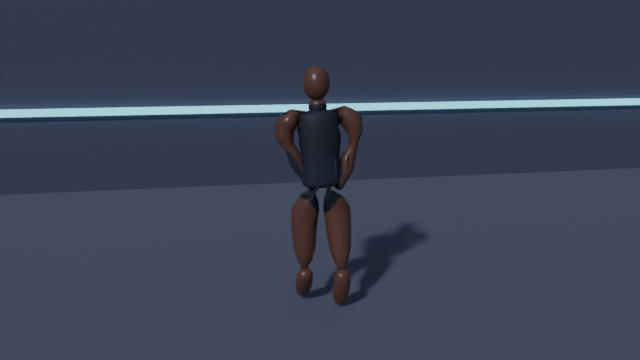
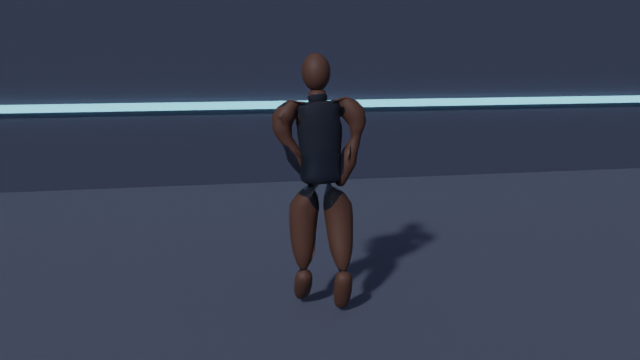
Force the diagnostics branch so every run publishes its log

diff --git a/tools/blender/make_screenshots.py b/tools/blender/make_screenshots.py
@@ -6,11 +6,10 @@ Produces:
     Game/assets/screenshots/<id>.png   one 16:9 shot per fighter
     Game/assets/screenshots/roster.png  the whole roster lined up
 
-The shots are rendered from the same rig, the same body, the same costume
-bake and the same idle clip the game loads, inside a reconstruction of the
-arena built from Game/data/arenas.json, and framed with the same field of
-view the match camera uses.  What the player sees in the menu is therefore
-what the fighter actually looks like in the ring.
+The shots are rendered from the exported game models themselves, inside a
+reconstruction of the arena built from Game/data/arenas.json, and framed
+with the same field of view the match camera uses.  What the player sees in
+the menu is therefore exactly what the fighter looks like in the ring.
 
 Axes: Blender is Z-up, the game is Y-up.  The game calls the arena width X,
 the arena depth Z and the height Y; here the same numbers are used with the
@@ -26,16 +25,10 @@ import bpy
 from mathutils import Matrix, Vector
 
 HERE = os.path.dirname(os.path.abspath(__file__))
-sys.path.insert(0, HERE)
-
-import bloodline_anim as anim  # noqa: E402
-import bloodline_rig as rig  # noqa: E402
-from generate_fighters import FIGHTERS, build_costume  # noqa: E402
-
 ROOT = os.path.abspath(os.path.join(HERE, "..", ".."))
+CHAR_DIR = os.path.join(ROOT, "Game", "assets", "characters")
 OUT_DIR = os.path.join(ROOT, "Game", "assets", "screenshots")
 ARENA_PATH = os.path.join(ROOT, "Game", "data", "arenas.json")
-BAKE_DIR = os.environ.get("BLOODLINE_BAKE", "/tmp/bloodline_bake")
 
 RES_X = 1280
 RES_Y = 720
@@ -171,46 +164,30 @@ def build_camera(location, target):
     return cam
 
 
-def build_fighter(spec, reset=True, skin_body=True):
-    """Builds the fighter and leaves the rig on the idle clip."""
-    if reset:
-        bpy.ops.wm.read_factory_settings(use_empty=True)
-    arm = rig.build_armature("Rig")
-    body = rig.build_body(arm, spec["proportions"], name="Body")
+def import_fighter(fighter_id):
+    """Imports the exported game model and poses it on the idle clip."""
+    path = os.path.join(CHAR_DIR, fighter_id + ".glb")
+    before = set(bpy.context.scene.objects)
+    bpy.ops.import_scene.gltf(filepath=path)
+    new_objects = [o for o in bpy.context.scene.objects if o not in before]
 
-    if skin_body:
-        arm_mod = body.modifiers.new("Armature", "ARMATURE")
-        arm_mod.object = arm
-        body.parent = arm
-        body.matrix_parent_inverse = arm.matrix_world.inverted()
+    rig_object = None
+    for obj in new_objects:
+        if obj.type == "ARMATURE":
+            rig_object = obj
+        elif obj.type == "MESH" and obj.name.startswith("Icosphere"):
+            # A helper the importer leaves behind; it is not part of the
+            # game model.
+            bpy.data.objects.remove(obj, do_unlink=True)
 
-    costume = build_costume(body, arm, spec, BAKE_DIR)
-    garment_objects = [c for c in costume if c is not None]
-    if garment_objects:
-        bpy.ops.object.select_all(action="DESELECT")
-        for obj in garment_objects:
-            obj.select_set(True)
-        bpy.context.view_layer.objects.active = garment_objects[0]
-        bpy.ops.object.join()
-        gear = bpy.context.active_object
-        gear.name = "Gear"
-        gear_arm = gear.modifiers.new("Armature", "ARMATURE")
-        gear_arm.object = arm
-        gear.parent = arm
-        gear.matrix_parent_inverse = arm.matrix_world.inverted()
-
-    # Every clip is authored on the rig.  The idle action is captured as it
-    # is created, because a second fighter in the same scene gets its own
-    # "idle.001" action.
-    idle = None
-    for clip in anim.ALL_CLIPS:
-        clip(arm)
-        action = arm.animation_data.action if arm.animation_data else None
-        if action is not None and action.name.startswith("idle"):
-            idle = action
-    if idle is not None:
-        arm.animation_data.action = idle
-    return arm
+    if rig_object is not None and rig_object.animation_data is not None:
+        idle = bpy.data.actions.get("idle")
+        if idle is not None:
+            rig_object.animation_data.action = idle
+            slots = getattr(idle, "slots", None)
+            if slots is not None and len(slots) > 0:
+                rig_object.animation_data.action_slot = slots[0]
+    return rig_object
 
 
 def setup_render():
@@ -226,6 +203,7 @@ def setup_render():
     scene.render.film_transparent = False
     scene.view_settings.view_transform = "Filmic"
     scene.render.image_settings.file_format = "PNG"
+    # A settled point in the two-second idle loop.
     scene.frame_set(20)
     bpy.context.view_layer.update()
 
@@ -236,12 +214,6 @@ def dump_scene():
     depsgraph = bpy.context.evaluated_depsgraph_get()
     bpy.context.view_layer.update()
     print("  camera:", scene.camera.name if scene.camera else None)
-    if scene.camera:
-        cam_eval = scene.camera.evaluated_get(depsgraph)
-        print("  camera loc:", tuple(round(v, 3) for v in
-                                     cam_eval.matrix_world.translation))
-        print("  camera rot:", tuple(round(v, 3) for v in
-                                     cam_eval.matrix_world.to_euler()))
     for obj in scene.objects:
         if obj.type != "MESH":
             continue
@@ -249,8 +221,7 @@ def dump_scene():
         points = [evaluated.matrix_world @ Vector(c) for c in evaluated.bound_box]
         lo = [round(min(p[i] for p in points), 2) for i in range(3)]
         hi = [round(max(p[i] for p in points), 2) for i in range(3)]
-        print("  mesh %-16s hide_render=%s lo=%s hi=%s" % (
-            obj.name, obj.hide_render, lo, hi))
+        print("  mesh %-16s lo=%s hi=%s" % (obj.name, lo, hi))
 
 
 def render_to(path):
@@ -259,9 +230,10 @@ def render_to(path):
     print("    wrote %s" % path)
 
 
-def shoot_fighter(fighter_id, spec, arena):
+def shoot_fighter(fighter_id, arena):
     print("=== screenshot: %s ===" % fighter_id)
-    build_fighter(spec)
+    bpy.ops.wm.read_factory_settings(use_empty=True)
+    import_fighter(fighter_id)
     build_arena(arena)
     setup_render()
     # The match camera looks at the midpoint of the two fighters, so a solo
@@ -273,26 +245,25 @@ def shoot_fighter(fighter_id, spec, arena):
         loc = tuple(float(v) for v in loc_part.split(","))
         tgt = tuple(float(v) for v in tgt_part.split(","))
     else:
-        loc = (0.85, 4.35, 1.95)
-        tgt = (0.0, 0.0, 0.98)
+        loc = (0.75, 4.1, 1.85)
+        tgt = (0.0, 0.0, 0.95)
     build_camera(loc, tgt)
     os.makedirs(OUT_DIR, exist_ok=True)
     dump_scene()
     render_to(os.path.join(OUT_DIR, fighter_id + ".png"))
 
 
-def shoot_roster(arena):
+def shoot_roster(order, arena):
     """The whole roster in one arena, for the README."""
     print("=== screenshot: roster ===")
     bpy.ops.wm.read_factory_settings(use_empty=True)
 
-    order = list(FIGHTERS.keys())
-    spacing = 2.35
+    spacing = 2.45
     start = -(len(order) - 1) * spacing * 0.5
     for index, fighter_id in enumerate(order):
-        spec = FIGHTERS[fighter_id]
-        arm = build_fighter(spec, reset=False)
-        arm.location = (start + index * spacing, 0.0, 0.0)
+        rig_object = import_fighter(fighter_id)
+        if rig_object is not None:
+            rig_object.location = (start + index * spacing, 0.0, 0.0)
         print("    placed %s" % fighter_id)
 
     build_arena(arena)
@@ -302,25 +273,27 @@ def shoot_roster(arena):
 
     # Frame the line-up.
     width = len(order) * spacing
-    distance = max(11.0, width * 1.45)
-    build_camera((0.0, distance, 3.4), (0.0, 0.0, 1.0))
+    distance = max(11.0, width * 1.4)
+    build_camera((0.0, distance, 3.2), (0.0, 0.0, 1.0))
     os.makedirs(OUT_DIR, exist_ok=True)
     render_to(os.path.join(OUT_DIR, "roster.png"))
 
 
 def main():
-    os.makedirs(BAKE_DIR, exist_ok=True)
     os.makedirs(OUT_DIR, exist_ok=True)
     arena = load_arena("circuit_pit")
 
+    order = ["unbound", "nyra", "dagan", "kael", "sable", "voss"]
+    order = [f for f in order if os.path.exists(os.path.join(CHAR_DIR, f + ".glb"))]
+
     only = os.environ.get("BLOODLINE_ONLY", "")
-    for fighter_id, spec in FIGHTERS.items():
+    for fighter_id in order:
         if only and fighter_id != only:
             continue
-        shoot_fighter(fighter_id, spec, arena)
+        shoot_fighter(fighter_id, arena)
 
     if not only:
-        shoot_roster(arena)
+        shoot_roster(order, arena)
 
 
 if __name__ == "__main__":
